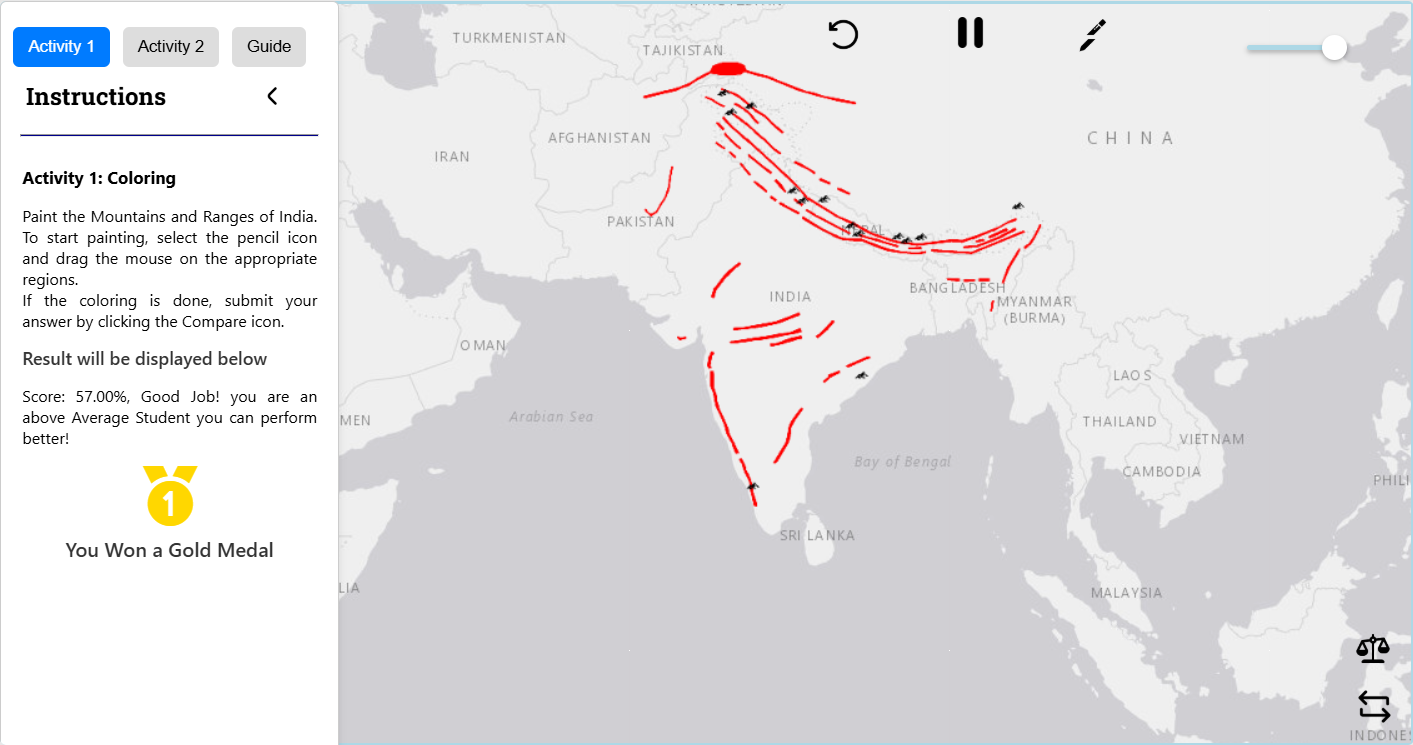
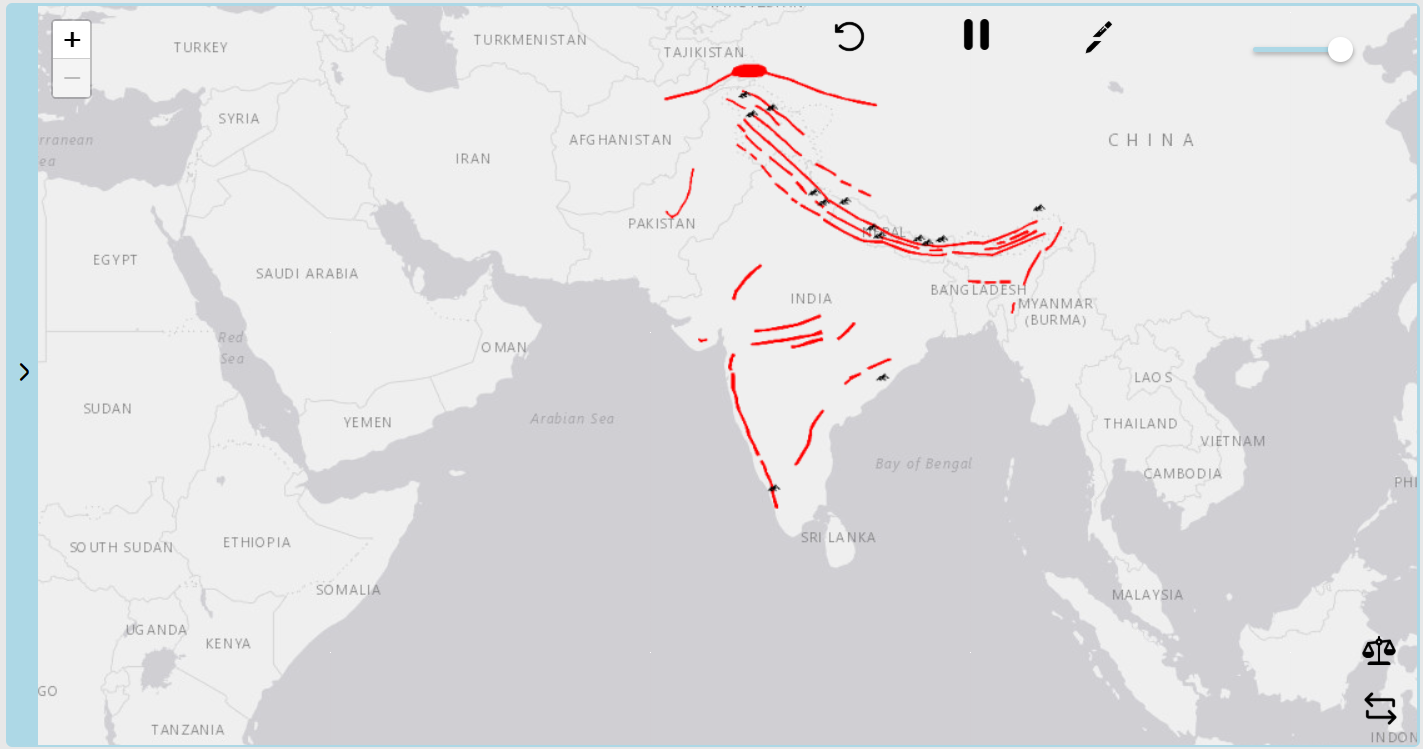
Parahushar Poragadni Pagal Chesave

diff --git a/src/components/Procedure.js b/src/components/Procedure.js
@@ -8,14 +8,44 @@ export default function Procedure() {
             <h3>Activiy 1</h3>
             <ol>
                 <li>
-                    A list of Indian sea ports and cities is provided. Click on the sea port name and then the matching city to form the right pair.  
-                    <img src="https://cdac.olabs.edu.in/userfiles/3/1728994665_fig11.png" alt="Match the pairs" />
-                    <strong>Fig. 1: Match the pairs</strong>
+                    Press the "Left Arrow" / "&lt;" to hide the Instructions Panel (Refer Fig. 1). Similary press the "Right Arrow" / "&gt;" to show the Instructions Panel (Refer Fig.2).
+                    <img src="/procedure_imgs/1_(1).png" alt="Activity 1 Image 1" />
+                    <strong>Fig. 1: Activity 1 Image 1</strong>
+                </li>
+                <li>
+                    Press "Zoom In" / "+" to zoom in and "Zoom Out" / "-" to zoom out, alternatively "Scroll Wheel" can also be used (Refer Fig. 2).
+                    <img src="/procedure_imgs/1_(2).png" alt="Activity 1 Image 2" />
+                    <strong>Fig. 2: Activity 1 Image 2</strong>
                 </li>
                 <li>
                     The bottom section displays correctly matched pairs.  
-                    <img src="https://cdac.olabs.edu.in/userfiles/2/1728994706_fig222.png" alt="Matched pairs" />
-                    <strong>Fig. 2: Matched pairs</strong>
+                    <img src="/procedure_imgs/1_(3).png" alt="Activity 1 Image 3" />
+                    <strong>Fig. 3: Activity 1 Image 3</strong>
+                </li>
+                <li>
+                    The bottom section displays correctly matched pairs.  
+                    <img src="/procedure_imgs/1_(4).png" alt="Activity 1 Image 4" />
+                    <strong>Fig. 4: Matched pairs</strong>
+                </li>
+                <li>
+                    The bottom section displays correctly matched pairs.  
+                    <img src="/procedure_imgs/1_(5).png" alt="Activity 1 Image 5" />
+                    <strong>Fig. 5: Matched pairs</strong>
+                </li>
+                <li>
+                    The bottom section displays correctly matched pairs.  
+                    <img src="/procedure_imgs/1_(6).png" alt="Activity 1 Image 6" />
+                    <strong>Fig. 6: Matched pairs</strong>
+                </li>
+                <li>
+                    The bottom section displays correctly matched pairs.  
+                    <img src="/procedure_imgs/1_(7).png" alt="Activity 1 Image 7" />
+                    <strong>Fig. 7: Matched pairs</strong>
+                </li>
+                <li>
+                    The bottom section displays correctly matched pairs.  
+                    <img src="/procedure_imgs/1_(8).png" alt="Activity 1 Image 8" />
+                    <strong>Fig. 8: Matched pairs</strong>
                 </li>
                 <li>Click on 'NEXT' to proceed to part 2 of the lab.</li>
             </ol>
@@ -23,28 +53,31 @@ export default function Procedure() {
             <h3>Activiy 2</h3>
             <ol>
                 <li>
-                    A list of some sea ports is provided. Select the correct sea ports by clicking on the corresponding checkboxes.  
-                    <img src="https://www.olabs.edu.in/userfiles/1/1705403510_part2.png" alt="Sea port names with checkboxes" />
-                    <strong>Fig. 3: Sea port names with checkboxes</strong>
+                    The bottom section displays correctly matched pairs.  
+                    <img src="/procedure_imgs/2_(1).png" alt="Activity 2 Image 1" />
+                    <strong>Fig. 1: Activity 2 Image 1</strong>
+                </li>
+                <li>
+                    The bottom section displays correctly matched pairs.  
+                    <img src="/procedure_imgs/2_(2).png" alt="Activity 2 Image 2" />
+                    <strong>Fig. 2: Activity 2 Image 2</strong>
                 </li>
                 <li>For reference, sea port locations are indicated on the map by a ship symbol.</li>
-                <li>Click on "SUBMIT" to get feedback.</li>
-                <li>Click on "NEXT" to proceed to part 3 of the lab.</li>
             </ol>
 
             <h3>Guide</h3>
             <ol>
-                <li>Dropdown selection lists are provided at multiple places on the Indian map, along with ship symbols.</li>
-                <li>Select the correct sea port name from the list given at the appropriate places.</li>
-                <li>Click on the ship symbol to know more about the respective sea port.</li>
                 <li>
-                    The Indian political map is also provided, which can be used for reference by clicking on the "Indian Political Map" checkbox.  
-                    <img src="https://www.olabs.edu.in/userfiles/1/1705403806_part3.png" alt="Political map checkbox" />
-                    <strong>Fig. 4: Political map checkbox</strong>
+                    The bottom section displays correctly matched pairs.  
+                    <img src="/procedure_imgs/3_(1).png" alt="Activity 3 Image 1" />
+                    <strong>Fig. 1: Activity 3 Image 1</strong>
+                </li>
+                <li>
+                    The bottom section displays correctly matched pairs.  
+                    <img src="/procedure_imgs/3_(2).png" alt="Activity 3 Image 2" />
+                    <strong>Fig. 2: Activity 3 Image 2</strong>
                 </li>
                 <li>Once all the sea port names are selected, click on "SUBMIT" to get the feedback.</li>
-                <li>If some names are selected at the wrong places, click on "TRY AGAIN" to select the correct sea port names.</li>
-                <li>If all the sea port names are selected at the correct positions, click on "RESTART" to perform the activity again.</li>
             </ol>
         </div>
   );

diff --git a/src/components/Simulation.js b/src/components/Simulation.js
@@ -6,7 +6,7 @@ import HTImap from './HTImap';
 
 export default function Simulation() {
     const [ActiveMap, setActiveMap] = useState(1);
-    const [matchResult, setMatchResult] = useState(localStorage.getItem("matchResult") || "Waiting...");
+    const [matchResult, setMatchResult] = useState("Waiting...");
     const [prevRatio, setPrevRatio] = useState(null); 
 
     function toggleInsContainer() {
@@ -25,41 +25,53 @@ export default function Simulation() {
     }    
 
     useEffect(() => {
-        const checkStorage = setInterval(() => {
-            let ratio = parseFloat(localStorage.getItem("matchResult")).toFixed(2) || 0;
-            console.log(ratio);
+        const handleMessage = (event) => {
+
+            if (event.data.payload) return;
+            
+            let ratio = event.data?.value || 0;
             let medal = document.getElementById("medal");
             let medalName = document.getElementById("medalName");
             let medal_con = document.querySelector(".medal_con");
-
-            if (!medal || !medalName || !medal_con) return; 
-
+    
+            if (!medal || !medalName || !medal_con) return;
+    
             const instructionCon = document.querySelector(".instructionCon");
+    
+            setPrevRatio((prev) => {
+                if (prev === ratio) return prev; 
+    
+                if (instructionCon && instructionCon.classList.contains("collapsed")) {
+                    toggleInsContainer();
+                }
+    
+                if (ratio >= 50) {
+                    setMatchResult(`Score: ${ratio}%, Good Job!`);
+                    medal.classList.add("fi-ss-first-medal", "medal1");
+                    medal_con.style.opacity = 1;
+                    medalName.textContent = "You Won a Gold Medal";
+                } else {
+                    setMatchResult(`Score: ${ratio}%, Keep trying!`);
+                    medal.classList.add("fi-ss-second-medal", "medal2");
+                    medal_con.style.opacity = 1;
+                    medalName.textContent = "You Won a Silver Medal";
+                }
+    
+                return ratio; 
+            });
 
-            if (instructionCon && instructionCon.classList.contains("collapsed") && ratio !== prevRatio) {
-                toggleInsContainer();
-            }
-
-            if (ratio >= 50) {
-                setMatchResult(`Score: ${ratio}%, Good Job! you are an above Average Student you can perform better!`);
-                medal.classList.add("fi-ss-first-medal");
-                medal.classList.add("medal1");
-                medal_con.style.opacity = 1;
-                medalName.textContent = "You Won a Gold Medal";
-            } 
-            else if (ratio <= 50 && ratio >= 0) {
-                setMatchResult(`Score: ${ratio}%, Not Bad! Keep trying, I know you will get it for sure.`);
-                medal.classList.add("fi-ss-second-medal");
-                medal.classList.add("medal2");
-                medal_con.style.opacity = 1;
-                medalName.textContent = "You Won a Silver Medal";
-            }
-
-            setPrevRatio(ratio);
-        }, 1000);
-
-        return () => clearInterval(checkStorage);
+        };
+    
+        window.addEventListener("message", handleMessage);
+    
+        return () => {
+            window.removeEventListener("message", handleMessage);
+        };
     }, [prevRatio]);
+    
+    useEffect(() => {
+        setMatchResult("Waiting...");
+    }, [ActiveMap]);
 
     return (
             <div className="simulationCon">
@@ -85,6 +97,7 @@ export default function Simulation() {
                                 <span className='activityHeader'>Activity 1: Coloring</span>
                                 <p className="instructions">Paint the Mountains and Ranges of India. To start painting, select the pencil icon and drag the mouse on the appropriate regions.</p>
                                 <p className="subTit">If the coloring is done, submit your answer by clicking the Compare icon.</p>
+
                                 <h2>Result will be displayed below</h2>
                                 <p className="subTit">{matchResult}</p>
                                 <div className="medal_con">
@@ -96,13 +109,20 @@ export default function Simulation() {
 
                     {ActiveMap === 2 && (
                     
-                            <div className="himalayasDragAndDropCon">
+                            <div className="himalayas_drawCon">
 
                                 <span className='activityHeader'>Activity 2: Drag and Drop</span>
                                 <p className="instructions">
                                     Drag the names of the Ranges and Mountains to their correct locations on the map.
                                     Carefully place each range in the correct position to test your knowledge of their geography.
                                 </p>
+
+                                <h2>Result will be displayed below</h2>
+                                <p className="subTit">{matchResult}</p>
+                                <div className="medal_con">
+                                    <i id="medal" className="fi"></i>
+                                </div>
+                                <h2 id="medalName"></h2>
                             </div>
                     )}
 

diff --git a/public/asset/map2.html b/public/asset/map2.html
@@ -348,22 +348,20 @@
                 }
             });
 
-            let message = '';
+            let score = 0;
 
             if (wrongAnswers.length > 0) {
-                message = "Incorrect Answers:\n";
-                wrongAnswers.forEach(wrong => {
-                    message += `Your answer: ${wrong.given}\nCorrect answer: ${wrong.correct}\n\n`;
-                });
-                message += `Score: ${correctAnswers} / ${totalQuestions}`;
+
+                score = correctAnswers/totalQuestions * 100;
+                
             } else if (correctAnswers == 0) {
-                message = "No Answers are provided!";
+                score = 0;
             } else {
-                message = "All answers are correct! 🎉";
+                score = 0;
             }
 
-            alert(message);
-
+            const data = { value: score.toFixed(2) };
+            window.parent.postMessage(data, "*");
         }
 
         document.getElementById('compareDraw').addEventListener('click', calculateScore);

diff --git a/public/asset/map1.html b/public/asset/map1.html
@@ -365,6 +365,7 @@
 
             document.getElementById('compareDraw').addEventListener('click', function () {  
                 map.setView([19.0760, 72.8777], 4); 
+                window.updateOpacity(1);
 
                 map.once('moveend', function () { 
                     setTimeout(() => {
@@ -387,7 +388,10 @@
 
                         const overlapRatio = overlayPixels ? (overlapPixels / overlayPixels).toFixed(2) : 0;
                         let overlapRatioSend = (overlapRatio * 100)
-                        localStorage.setItem("matchResult", overlapRatioSend);
+                        
+                        const data = { value: overlapRatioSend };
+                        window.parent.postMessage(data, "*");
+
                     }, 2000); 
                 });
             });
